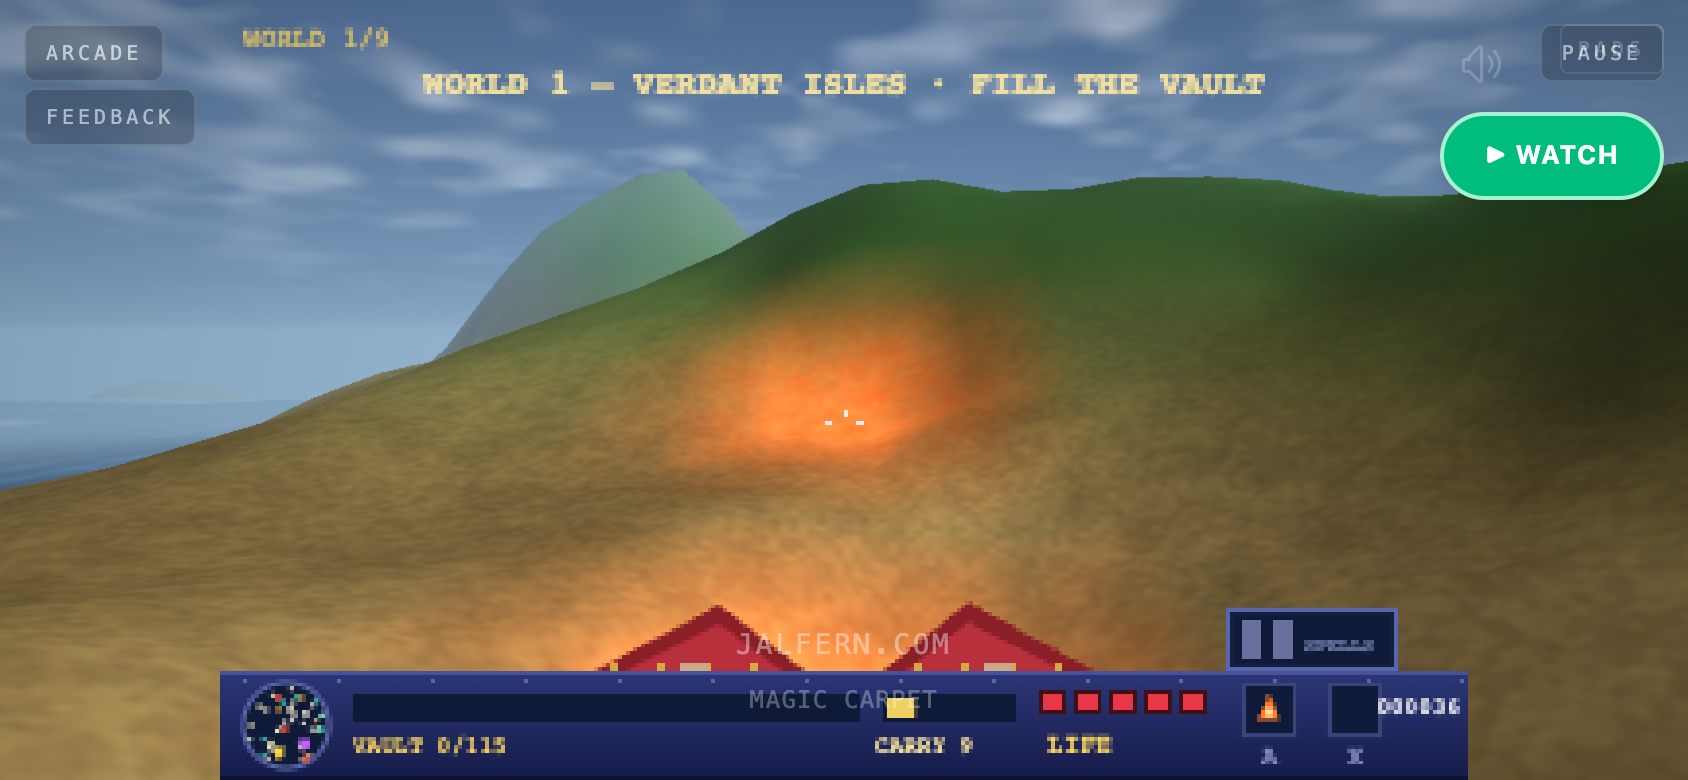
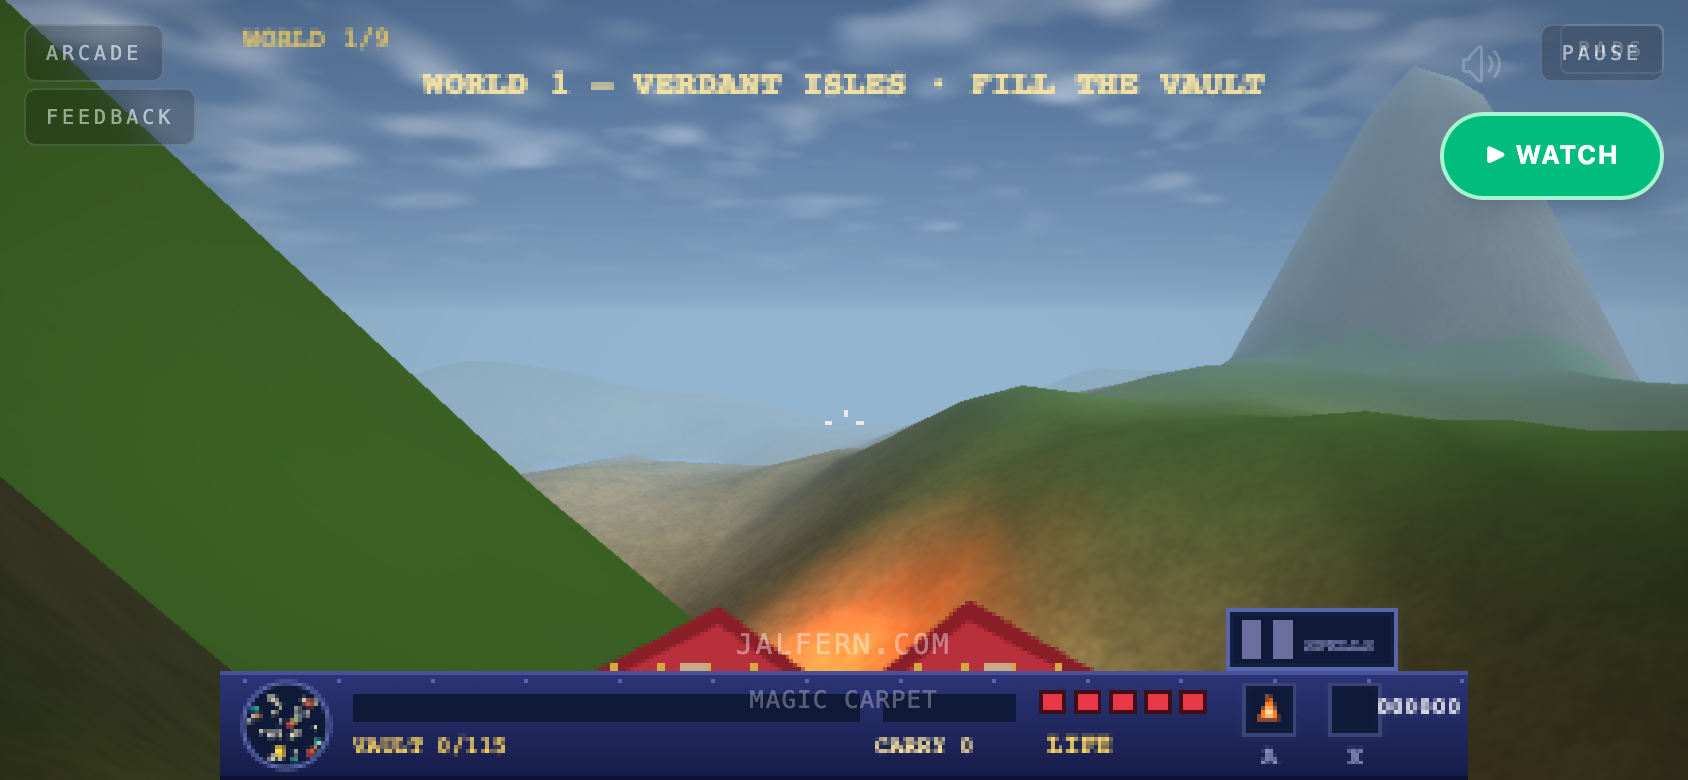
#1764 item 4 stage 2: dive below sea — flooded craters flood the view, not just the map
Dry ground keeps the WATER+3 law; where the ground sinks below WATER the
carpet dips to ground+1.6 (same hover clearance as over land) and the
composite paints it: red-eating blue grade, sim-ticked caustic bands and
rising bubbles, the sky dome turned to deep water, and muffleOf closes the
world like the veil does. diveOf(gs) is the pure depth readout (never
hashed). rng-free: digs + dive replay bit-identical.

carpetcheck +9 gates (seed-7 dive sweep, dry-law, dig/dive/hover/muffle/
purity/determinism, source pins banning the old blanket floor, live shader-
mix gate); the burial gate is ground-relative now. lint + build green.

diff --git a/src/games/MagicCarpet/renderer.js b/src/games/MagicCarpet/renderer.js
@@ -457,6 +457,7 @@ void main(){
         uSunDir: tUniforms.uSunDir, uSunCol: tUniforms.uSunCol,
         uCloudCol: { value: new THREE.Color() }, uCloudMix: { value: 0.5 }, uTime: tUniforms.uTime,
         uWorldTime: tUniforms.uWorldTime,
+        uSub: { value: 0 }, // #1764 item 4 stage 2: submersion 0..1 — from below the sea the dome is deep water, not sky
     }
     const sky = new THREE.Mesh(
         new THREE.SphereGeometry(900, 32, 18),
@@ -465,7 +466,7 @@ void main(){
             vertexShader: 'varying vec3 vDir; void main(){ vDir = position; gl_Position = projectionMatrix * modelViewMatrix * vec4(position, 1.0); }',
             fragmentShader: `
 precision highp float;
-uniform vec3 uZenith, uHorizon, uSunDir, uSunCol, uCloudCol; uniform float uCloudMix, uTime, uWorldTime;
+ uniform vec3 uZenith, uHorizon, uSunDir, uSunCol, uCloudCol; uniform float uCloudMix, uTime, uWorldTime, uSub;
 varying vec3 vDir;
 ${NOISE_GLSL}
 void main(){
@@ -484,6 +485,10 @@ void main(){
     float cov2 = smoothstep(0.58 - uCloudMix * 0.1, 0.84, c2) * smoothstep(0.0, 0.3, d.y);
     col = mix(col, uCloudCol * (0.78 + 0.34 * fine), cov2 * uCloudMix * 0.55);
     col = mix(col, uCloudCol * (0.86 + 0.3 * fine), cov * uCloudMix);
+    // #1764 item 4 stage 2: submerged, the dome is the underside of the sea —
+    // deep teal, sun reduced to a wavering shaft overhead (light through waves).
+    float shaft = pow(max(0.0, d.y), 1.5) * (0.5 + 0.5 * sin(d.x * 9.0 + uWorldTime * 0.11) * sin(d.z * 7.0 - uWorldTime * 0.08));
+    col = mix(col, mix(vec3(0.015, 0.07, 0.12), vec3(0.10, 0.26, 0.30), shaft), uSub);
     gl_FragColor = vec4(col, 1.0);
 }
 `,
@@ -565,15 +570,32 @@ void main(){
 }
 `, { uT: { value: null }, uDir: { value: new THREE.Vector2() } }))
     const compMesh = new THREE.Mesh(quad, qmat(`
-precision highp float; uniform sampler2D uScene, uBloom; uniform float uBloomAmt; varying vec2 vQ;
+precision highp float; uniform sampler2D uScene, uBloom; uniform float uBloomAmt, uSub, uWorldTime; varying vec2 vQ;
+float hsub(vec2 p){ return fract(sin(dot(p, vec2(127.1, 311.7))) * 43758.5453); }
 void main(){
     vec3 c = texture2D(uScene, vQ).rgb + texture2D(uBloom, vQ).rgb * uBloomAmt;
     vec2 v = vQ - 0.5;
     c *= 1.0 - dot(v, v) * 0.42;
     c = c * 1.04 - 0.015;
+    // #1764 item 4 stage 2: UNDERWATER. Depth eats the reds first (the sea is a
+    // red filter), light bends into walking caustic bands, and cold bubbles rise
+    // past the glass. All driven by sim ticks (uWorldTime), never wall time.
+    if (uSub > 0.0) {
+        float ca = 0.5 + 0.5 * sin(vQ.x * 21.0 + uWorldTime * 0.09 + sin(vQ.y * 13.0 - uWorldTime * 0.055) * 1.4);
+        ca = ca * ca * ca;
+        vec3 u = c * vec3(0.30, 0.62, 0.78) + vec3(0.04, 0.14, 0.18) * ca;
+        vec2 cell = floor(vQ * vec2(52.0, 30.0));
+        float bh = hsub(cell);
+        float rise = fract(bh * 7.0 - uWorldTime * 0.045 * (0.6 + bh));
+        vec2 bp = (fract(vQ * vec2(52.0, 30.0)) - vec2(0.35 + 0.3 * bh, rise));
+        float bub = smoothstep(0.16, 0.05, length(bp)) * step(0.80, bh) * step(rise, 0.7);
+        u += vec3(0.16, 0.30, 0.34) * bub;
+        u = mix(u, vec3(0.02, 0.09, 0.16), 0.22);
+        c = mix(c, u, uSub);
+    }
     gl_FragColor = vec4(clamp(c, 0.0, 1.0), 1.0);
 }
-`, { uScene: { value: null }, uBloom: { value: null }, uBloomAmt: { value: 0.75 } }))
+`, { uScene: { value: null }, uBloom: { value: null }, uBloomAmt: { value: 0.75 }, uSub: { value: 0 }, uWorldTime: tUniforms.uWorldTime }))
     const scBright = mkScene(brightMesh)
     const scBlur = mkScene(blurMesh)
     const scComp = mkScene(compMesh)
@@ -1080,6 +1102,12 @@ void main(){
         emitAmbient(gs)
         tUniforms.uTime.value = performance.now() / 1000
         tUniforms.uWorldTime.value = gs.tick
+        // #1764 item 4 stage 2: submersion depth (0..1 over 6u) drives the
+        // underwater composite and the submerged sky. Derived from gs only —
+        // replay-stable, and the shell can poll it against diveOf(gs).
+        const sub = Math.max(0, Math.min(1, (WATER - gs.alt) / 6))
+        compMesh.material.uniforms.uSub.value = sub
+        sUniforms.uSub.value = sub
 
         const bank = view.bank || 0
         const cpP = (view.pitch ?? 0.06) + (view.sink || 0)
@@ -1178,6 +1206,7 @@ void main(){
         spriteCount: () => spr.geo.instanceCount,
         glowCells: () => { let n = 0; for (let i = 0; i < N * N; i++) if (hData[i * 4 + 1] > 0) n++; return n },
         waveUniform: () => tUniforms.uWorldTime.value, // #1764 item 4: the shader's clock is sim ticks, not wall time
+        subUniform: () => compMesh.material.uniforms.uSub.value, // #1764 item 4 stage 2: the painted submersion mix
         scorchCells: () => { let n = 0; for (let i = 0; i < N * N; i++) if (hData[i * 4 + 2] > 0) n++; return n },
         dispose() {
             rtScene.dispose(); rtA.dispose(); rtB.dispose(); rtEyeL.dispose(); rtEyeR.dispose()

diff --git a/src/games/MagicCarpet/index.jsx b/src/games/MagicCarpet/index.jsx
@@ -19,7 +19,7 @@ import {
     LEVELS,
     SPILLS, spellById,
     makeGame, step, autopilot, stateHash, setHand, cycleR, cycleL, crater, settleGround, INVIS_T,
-    hudTap, TAP, TRAY, muffleOf, OPEN_CUTOFF, crumbleFeel, castBearing,
+    hudTap, TAP, TRAY, muffleOf, OPEN_CUTOFF, crumbleFeel, castBearing, diveOf, sampleH, WATER,
     atCastle, bookOpen, bookClose, bookKey, bookTap, BOOK, BOOK_PROMPT,
     SEL, selectTap, cursorStep,
 } from './sim.js'
@@ -1209,6 +1209,9 @@ const MagicCarpetGame = () => {
                     // the sim tick (never wall time).
                     waveIdx: Math.floor(gs.tick / WAVE_CYCLE.stepTicks) % WAVE_CYCLE.levels,
                     waveTick: renderer ? renderer.waveUniform() : -1,
+                    // #1764 item 4 stage 2: units below sea (diveOf) and the mix the
+                    // shader actually painted with — the live gate compares the two.
+                    sub: +diveOf(gs).toFixed(2), subU: renderer ? +renderer.subUniform().toFixed(3) : -1,
                     invis: gs.invis, book: gs.book,
                     spellBook: gs.spellBook, bookPage: gs.spellBook ? gs.bookPage : -1,
                     atCastle: atCastle(gs), castle: { x: gs.castle.x, y: gs.castle.y },
@@ -1251,6 +1254,21 @@ const MagicCarpetGame = () => {
                     crater(gs, gs.x + Math.cos(gs.yaw) * 70, gs.y + Math.sin(gs.yaw) * 70, 16, 10, 1)
                     settleGround(gs) // #1694: the dig gates read the LANDED crater, not the window
                     return gs.craters.length
+                },
+                // #1764 item 4 stage 2: sink a dry pool under the carpet — digs (the
+                // crater bowl falls off toward its rim, so one dig rarely reaches)
+                // until the floor sits under the sea, giving the live world a diveable
+                // pit. crater() is rng-free: the dig and the dive replay identically.
+                diveDig: () => {
+                    gs.shield = 1e9 // the wizard's bolt must not rewrite the gate mid-dive
+                    let n = 0
+                    while (sampleH(gs, gs.x, gs.y) > WATER - 4 && n < 12) {
+                        crater(gs, gs.x, gs.y, 14, 24, 0)
+                        settleGround(gs)
+                        n++
+                    }
+                    const h1 = sampleH(gs, gs.x, gs.y)
+                    return { floor: +h1.toFixed(2), flooded: h1 < WATER, digs: n }
                 },
                 // #1703 (phone proof): queue the same crater digHot lands — but
                 // leave the crumble window OPEN so a pass can capture mid-window

diff --git a/src/games/MagicCarpet/sim.js b/src/games/MagicCarpet/sim.js
@@ -964,8 +964,13 @@ export function bookTap(gs, x, y) {
 // closed band while veiled. It never feeds stateHash — it drives sound, not rules.
 export const OPEN_CUTOFF = 18000
 export const MUFFLE_CUTOFF = 520
+// #1764 item 4 stage 2: units the carpet sits BELOW the sea surface — a pure
+// read of the water clamp inside step() (0 above sea, >0 inside a flooded pit).
+// Never feeds stateHash: like muffleOf it drives presentation (the renderer's
+// submersion mix) and audio (underwater the world goes muffled).
+export const diveOf = (gs) => Math.max(0, WATER - gs.alt)
 export function muffleOf(gs) {
-    return gs.invis > 0 ? MUFFLE_CUTOFF : OPEN_CUTOFF
+    return gs.invis > 0 || diveOf(gs) > 0 ? MUFFLE_CUTOFF : OPEN_CUTOFF
 }
 
 // #1697: how a finished crumble LANDS on the wizard on the carpet — pure read
@@ -1020,7 +1025,11 @@ export function step(gs, inp) {
         sampleH(gs, gs.x + Math.cos(gs.yaw) * Math.max(26, v * 13), gs.y + Math.sin(gs.yaw) * Math.max(26, v * 13)),
     )
     if (aheadH + 4 > gs.alt) gs.alt = Math.min(gs.alt + CFG.climb, aheadH + 4)
-    gs.alt = Math.max(Math.max(WATER + 3, sampleH(gs, gs.x, gs.y) + 1.6), Math.min(120, gs.alt))
+    // #1764 stage 2: flooded ground (gH < WATER) is diveable — hover at gH+1.6
+    // under the sea; dry ground keeps the WATER+3 law. rng-free, replay-stable.
+    const gH = sampleH(gs, gs.x, gs.y)
+    const floorAlt = gH < WATER ? gH + 1.6 : Math.max(WATER + 3, gH + 1.6)
+    gs.alt = Math.max(floorAlt, Math.min(120, gs.alt))
 
     if (inp.castL || inp.a) castHand(gs, 'L')
     if (inp.castR || inp.b) castHand(gs, 'R')

diff --git a/src/games/MagicCarpet/README.md b/src/games/MagicCarpet/README.md
@@ -402,9 +402,17 @@ see item 5).
   tracing the shoreline. **CLOSED by #1764 item 4 stage 1:** the depth bands are
   now hard 4-level bands whose palette index marches one level every 6 sim ticks
   (`WAVE_CYCLE`) — the original's 16-colour palette animation walking through the
-  wave bands, clocked on sim ticks (determinism intact). Still open: band shapes
-  sit still while the colours walk (true travelling crests), and no underwater
-  view when cratered below sea.
+  wave bands, clocked on sim ticks (determinism intact).
+  **CLOSED by #1764 item 4 stage 2:** ground sunk below sea level is diveable —
+  where the ground reads below `WATER` the carpet's floor drops to ground+1.6
+  (dry ground keeps the old never-below-`WATER`+3 law), `diveOf(gs)` is the pure
+  depth readout (never hashed), and while it is > 0 the composite paints the
+  underwater view: red-eating blue grade, sim-ticked caustic bands and rising
+  bubbles, the sky dome turned to deep water, and `muffleOf` closes the world
+  like the veil does. carpetcheck +9 gates (seed-7 dive sweep, dig/dive/muffle/
+  determinism/purity, source pins, live shader-mix gate). Still open: band shapes
+  sit still while the colours walk (true travelling crests), underwater handling
+  (drag, spell limits), and the sea surface seen from below.
 - **CLOSED by #1694:** terrain deformation ripple — craters, RAISE mounds and
   DISSOLVE wounds now unfold over CRUMBLE_T=10 ticks (ease-in collapse,
   ease-out swell, a shockwave rim that settles to exactly zero) with the
